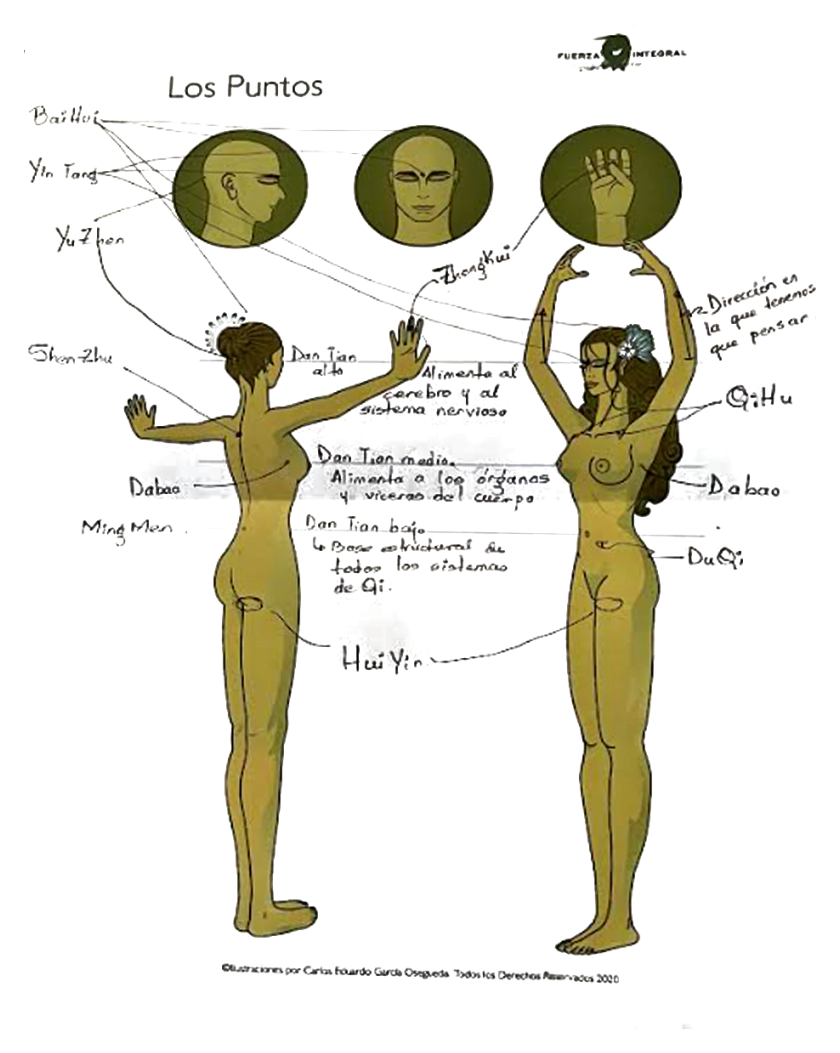
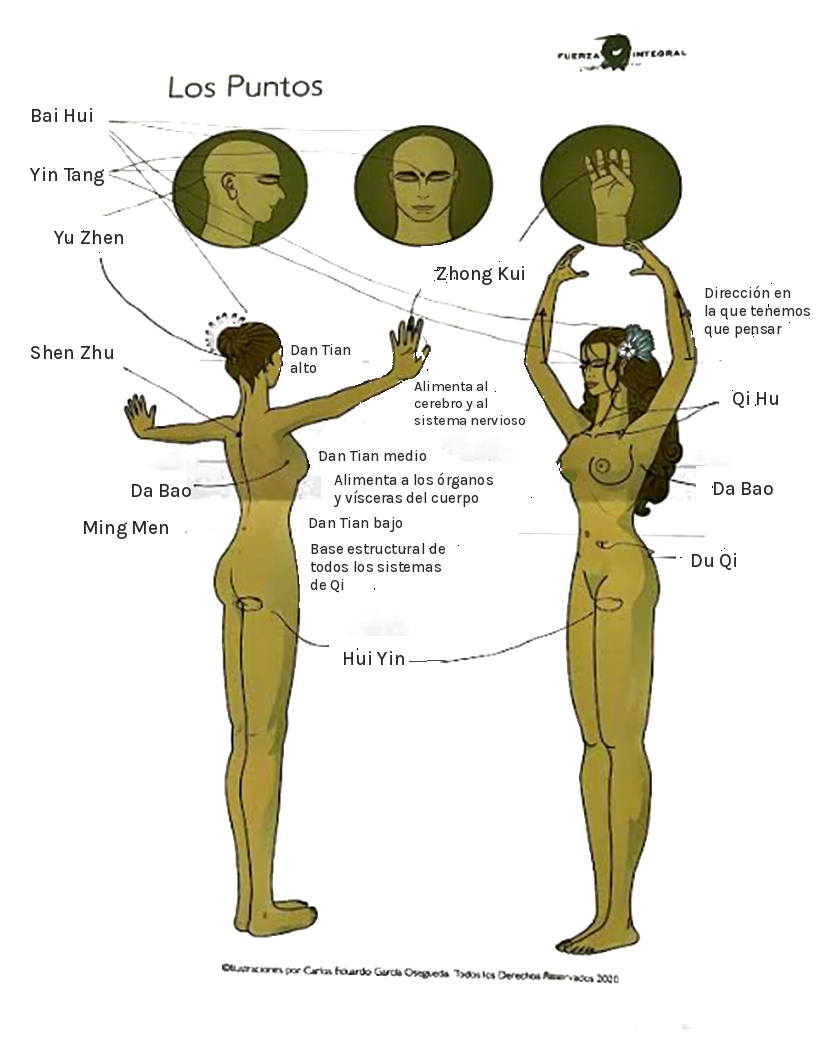
Cambiar las notas a mano de Los Puntos por letra de computadora
Claude-Session: https://claude.ai/code/session_01C53Z5GTSC6qooXg4Jt7jJE

diff --git a/BITACORA.md b/BITACORA.md
@@ -253,3 +253,8 @@
 - Carmen pidió que la lámina "Los Puntos" no pareciera fotografía. Se enderezó la
   hoja, se quitaron las sombras y el fondo gris, se blanqueó el papel y se
   oscureció un poco la letra a mano, para que se vea como una hoja escaneada.
+- Carmen pidió cambiar las notas a mano de la lámina "Los Puntos" por letra de
+  computadora. Se borraron sus notas escritas a mano y se volvieron a escribir con
+  la tipografía Karla (la del sitio), en el mismo lugar: los nombres de los puntos,
+  los tres Dan Tian con lo que alimenta cada uno, y "Dirección en la que tenemos que
+  pensar".
